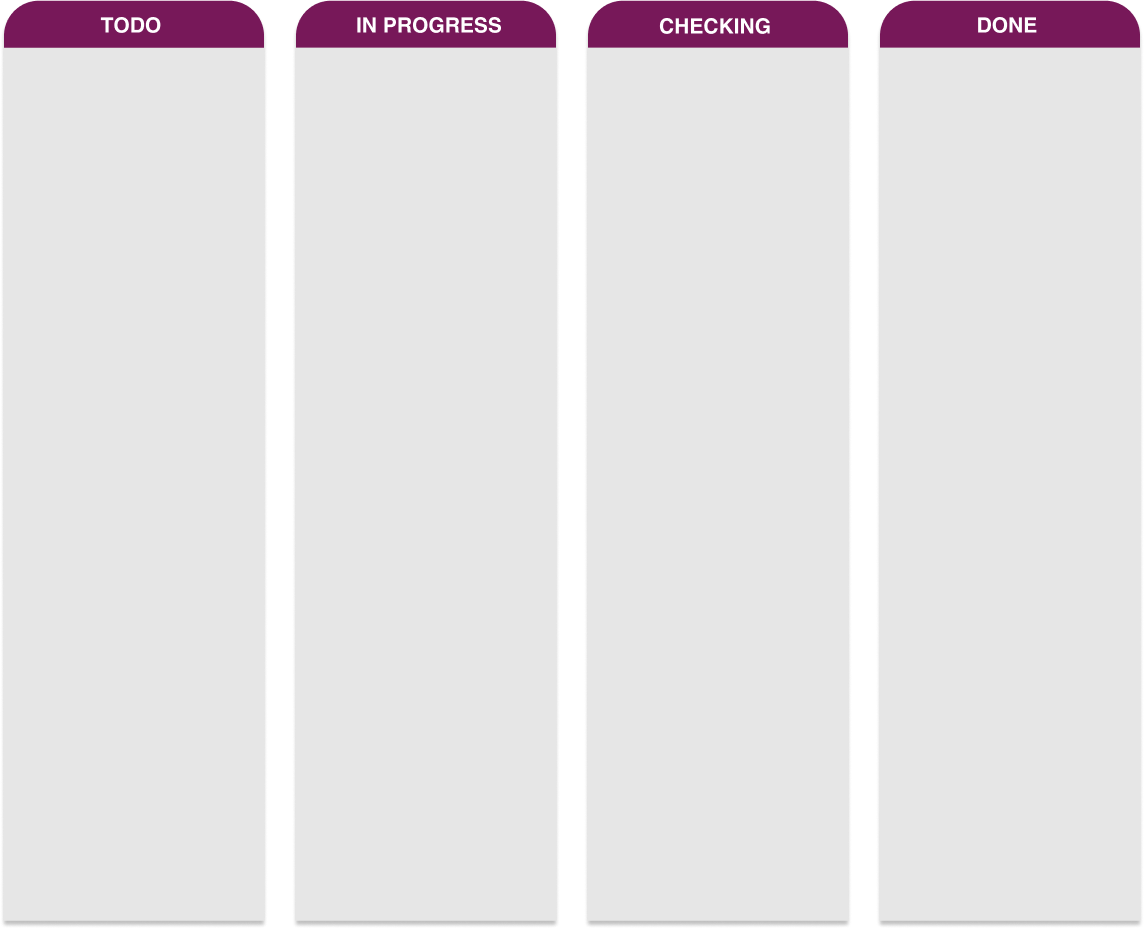
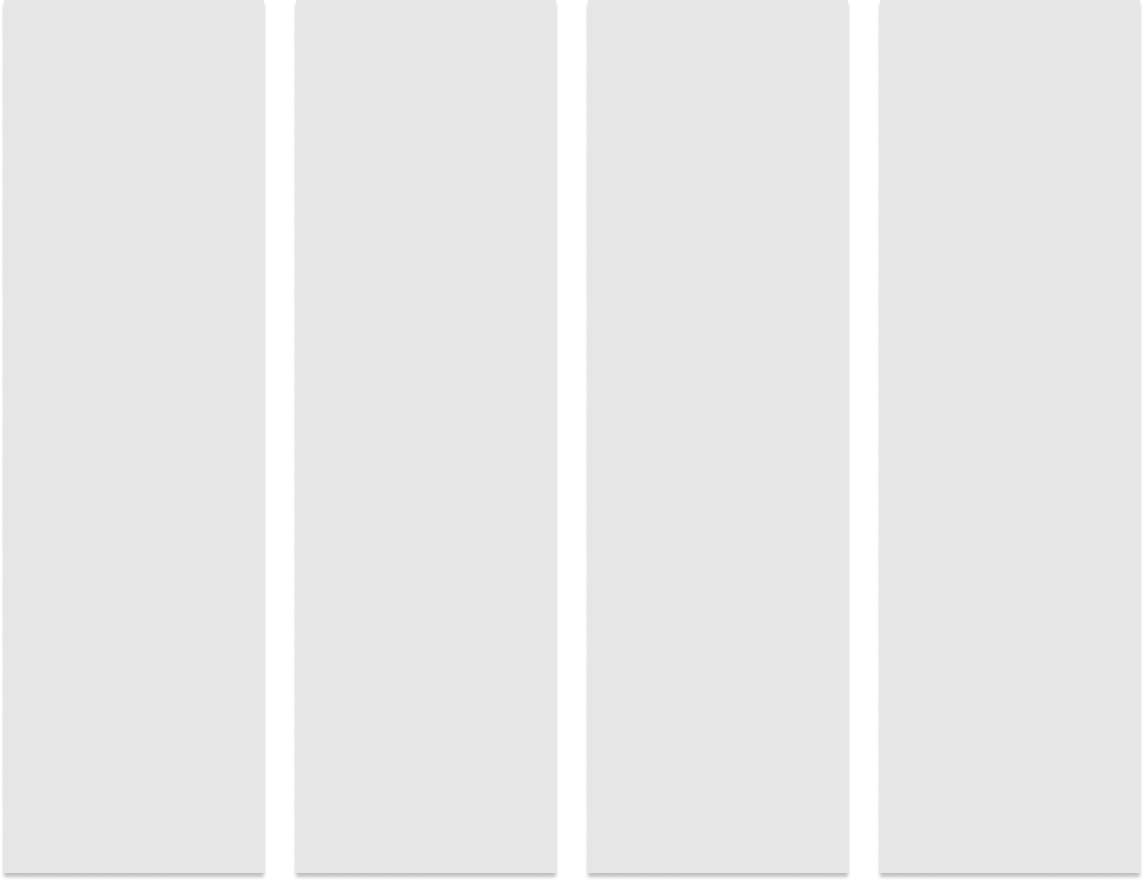
added board view

Changed region(s): [[0.0, 0.0, 1.0, 0.0613]]

diff --git a/view/board_view.py b/view/board_view.py
@@ -28,7 +28,8 @@ class BoardView(ttk.Frame):
         self.tsk_controller.reload_all_entities()
 
         self.go_main_menu_command = GoMainMenuCommand(self.prj_controller)
-        self.show_create_task_command = ShowCreateTaskCommand(self.tsk_controller, self.current_project, self.employee_role)
+        self.show_create_task_command = ShowCreateTaskCommand(self.tsk_controller, self.current_project,
+                                                              self.employee_role)
 
         self.canvas = Canvas(self, bg="#f9f4f5", height=1024, width=1440, bd=0, highlightthickness=0, relief="ridge")
         self.canvas.pack()
@@ -43,7 +44,7 @@ class BoardView(ttk.Frame):
         self.create_task_btn = Button(self, image=self.create_task_img0, borderwidth=0, highlightthickness=0,
                                       command=self.show_create_task_command, relief="flat", bg="#f9f4f5",
                                       activebackground="#D945AA")
-        self.create_task_btn.place(x=1275, y=0, width=165, height=55)
+        self.create_task_btn.place(x=1275, y=1.2, width=165, height=53.8)
         self.create_task_btn.bind("<Enter>", self.add_task_btn_on_enter)
         self.create_task_btn.bind("<Leave>", self.add_task_btn_on_leave)
         self.go_back_btn = Button(self, image=self.go_back_img2, borderwidth=0, highlightthickness=0,
@@ -53,16 +54,19 @@ class BoardView(ttk.Frame):
         self.go_back_btn.bind("<Enter>", self.go_back_btn_on_enter)
         self.go_back_btn.bind("<Leave>", self.go_back_btn_on_leave)
 
-        self.background = self.canvas.create_image(720, 27.5, image=self.background_img)
-        self.sections_background = self.canvas.create_image(600, 541, image=self.sections_background_img)
+        self.background = self.canvas.create_image(720, 62.8, image=self.background_img)
 
         self.sections = Frame(self, height=920, width=1168, bg="#f9f4f5")
+        self.sections_canvas = Canvas(self.sections, bg="#f9f4f5", height=920, width=1168, bd=0, highlightthickness=0,
+                                      relief="ridge")
+        self.sections_canvas.place(x=0, y=0)
+        self.sections_background = self.sections_canvas.create_image(584, 440, image=self.sections_background_img)
 
         self.sections.place(x=16, y=123)
-        self.sections.columnconfigure(0, minsize=292, weight=1)
-        self.sections.columnconfigure(1, minsize=292, weight=1)
-        self.sections.columnconfigure(2, minsize=292, weight=1)
-        self.sections.columnconfigure(3, minsize=292, weight=1)
+        for c_idx in range(0, 4):
+            self.sections.columnconfigure(c_idx, minsize=292, weight=1)
+        for r_idx in range(0, 9):
+            self.sections.rowconfigure(r_idx, minsize=90, weight=1)
 
         for t in self.project_tasks:
             self.tsk = TaskView(self.sections, self.tsk_controller, t, highlightbackground="#771859",
